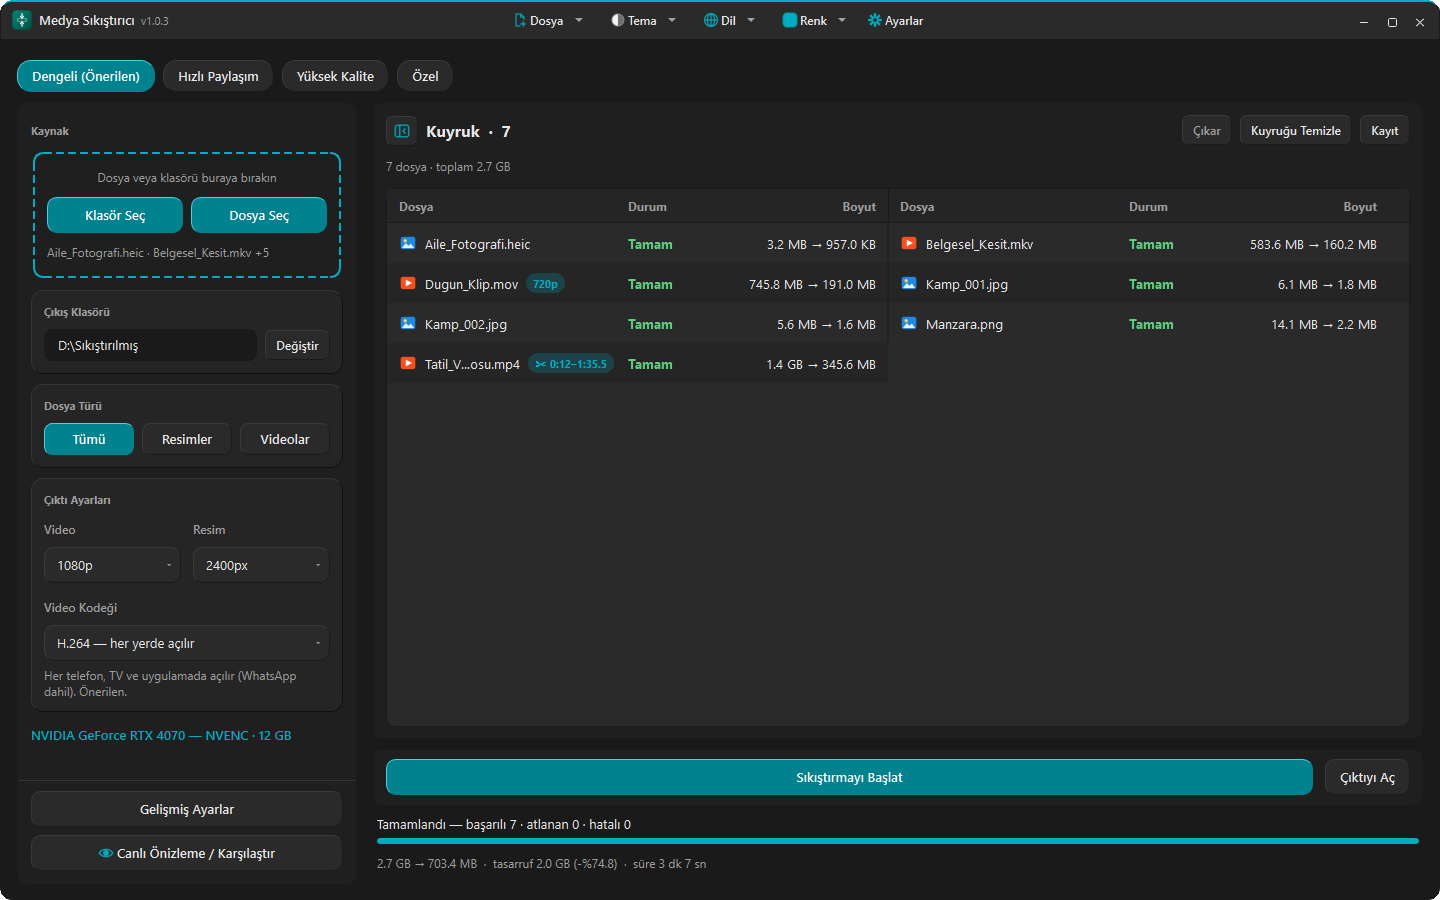
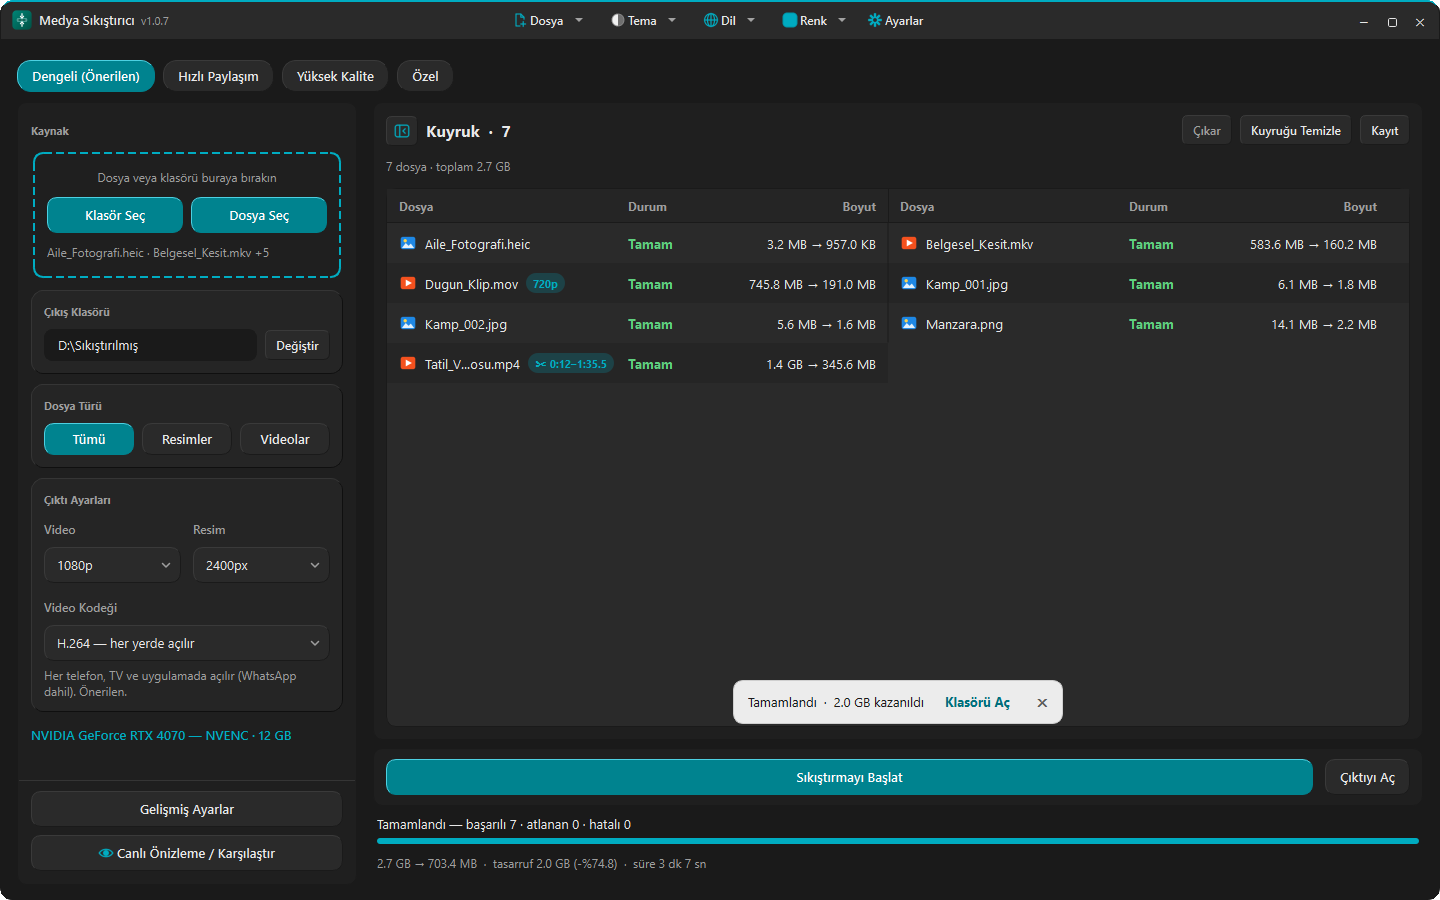
1.0.7: the update window writes the download percentage the way the language does (%41 / 41%), like its bar; README links the GitHub release; refreshed screenshots; message box tests stop their safety timers

Changed region(s): [[0.5, 0.7467, 0.75, 0.8089]]

diff --git a/tests/test_message_box.py b/tests/test_message_box.py
@@ -505,6 +505,15 @@ class TestHookTests(Base):
 
 
 class InputDialogTests(Base):
+    def _safety_close(self) -> None:
+        """Closes a dialog still open after 5 s. The timer stops when the test ends: left running, it closed a later
+        test's box (on a slow machine ParentGoneWhileOpenTest's box shut before its parent went away)."""
+        timer = QTimer()
+        timer.setSingleShot(True)
+        timer.timeout.connect(lambda: (QApplication.activeModalWidget() or QWidget()).close())
+        timer.start(5000)
+        self.addCleanup(timer.stop)
+
     def test_hook_results_for_all_getters(self) -> None:
         MessageBox.set_test_hook(lambda d: ("Yeni Ad", True))
         self.assertEqual(InputDialog.getText(None, "T", "Ad", text="Eski"), ("Yeni Ad", True))
@@ -571,12 +580,12 @@ class InputDialogTests(Base):
             QTest.keyClick(dlg, Qt.Key.Key_Return)
 
         QTimer.singleShot(0, act)
-        QTimer.singleShot(5000, lambda: (QApplication.activeModalWidget() or QWidget()).close())
+        self._safety_close()
         self.assertEqual(InputDialog.getText(None, "Cihaz", "Ad", text="eski"), ("Ofis PC", True))
 
     def test_real_exec_escape_and_cancel_button(self) -> None:
         QTimer.singleShot(0, lambda: QTest.keyClick(QApplication.activeModalWidget(), Qt.Key.Key_Escape))
-        QTimer.singleShot(5000, lambda: (QApplication.activeModalWidget() or QWidget()).close())
+        self._safety_close()
         self.assertEqual(InputDialog.getText(None, "Cihaz", "Ad", text="eski"), ("", False))
         QTimer.singleShot(0, lambda: QApplication.activeModalWidget().button(SB.Cancel).click())
         self.assertEqual(InputDialog.getInt(None, "T", "Sayı", 3, 0, 9), (3, False))
@@ -588,7 +597,7 @@ class InputDialogTests(Base):
             QTest.keyClick(dlg, Qt.Key.Key_Return)
 
         QTimer.singleShot(0, act)
-        QTimer.singleShot(5000, lambda: (QApplication.activeModalWidget() or QWidget()).close())
+        self._safety_close()
         self.assertEqual(InputDialog.getInt(None, "T", "px", 1920, 240, 7680, 10), (2500, True))
 
     def test_get_item_editable_flag(self) -> None:

diff --git a/tests/test_update_flow.py b/tests/test_update_flow.py
@@ -119,12 +119,22 @@ class UpdateDialogTests(ModalGuard, unittest.TestCase):
         self.assertEqual(self._visible(dialog), {"cancel_btn", "progress_bar", "progress_label"})
         self.assertEqual((dialog.progress_bar.minimum(), dialog.progress_bar.maximum()), (0, 0), "ilk ilerlemeye dek belirsiz")
 
+    def test_percent_in_english(self) -> None:
+        dialog = self._dialog(lang="en")
+        dialog.update_btn.click()
+        dialog.update_download_progress(5_000_000_000, 6_000_000_000, 0.0)
+        dialog.progress_bar.finish_animation()
+        self.assertIn("(83%)", dialog.progress_label.text())
+        self.assertEqual(dialog.progress_bar.text(), "83%")
+
     def test_progress_shows_percent_size_and_speed_beyond_two_gigabytes(self) -> None:
         dialog = self._dialog()
         dialog.update_btn.click()
         dialog.update_download_progress(5_000_000_000, 6_000_000_000, 2.5)
         self.assertEqual(dialog.progress_bar.value(), 83)
-        self.assertIn("4.7 GB / 5.6 GB (83%)", dialog.progress_label.text())
+        self.assertIn("4.7 GB / 5.6 GB (%83)", dialog.progress_label.text())
+        dialog.progress_bar.finish_animation()
+        self.assertEqual(dialog.progress_bar.text(), "%83", "the bar and the line write the percent alike")
         self.assertIn("2.50 MB/s", dialog.progress_label.text())
         dialog.update_download_progress(1024, 0, 0.0)  # toplam bilinmiyor
         self.assertEqual(dialog.progress_bar.maximum(), 0)

diff --git a/src/gui/update_dialog.py b/src/gui/update_dialog.py
@@ -92,6 +92,7 @@ class UpdateDialog(ChromeDialog):
 
         self.progress_bar = SmoothProgressBar()
         self.progress_bar.setMinimumHeight(18)
+        self.progress_bar.setFormat(t("pct", self.lang).format("%p"))  # the bar and the line under it alike: "%41" in Turkish, "41%" in English
         self.progress_bar.setVisible(False)
         layout.addWidget(self.progress_bar)
         self.progress_label = QLabel()
@@ -194,7 +195,7 @@ class UpdateDialog(ChromeDialog):
             percent = min(int((downloaded / total) * 100), 100)
             self.progress_bar.setRange(0, 100)
             self.progress_bar.setValue(percent)
-            text = f"{format_bytes(downloaded)} / {format_bytes(total)} ({percent}%)"
+            text = f"{format_bytes(downloaded)} / {format_bytes(total)} ({t('pct', self.lang).format(percent)})"
         else:
             self.progress_bar.setRange(0, 0)
             text = t("update_downloaded_bytes", self.lang).format(format_bytes(downloaded))

diff --git a/src/core/app_info.py b/src/core/app_info.py
@@ -4,7 +4,7 @@ APP_NAME = "Medya Sıkıştırıcı"
 APP_ID = "MediaCompressor"
 # Eski sürümlerin kimliği: ayar klasörü, indirilen ffmpeg ve başlangıç kaydı bu adla duruyor (geçiş için okunur).
 LEGACY_APP_ID = "MedyaSikistirici"
-VERSION = "1.0.6"
+VERSION = "1.0.7"
 ORGANIZATION = "MediaCompressor"
 UPDATE_CHECK_URL = "https://macik.com.tr/api/updates/check"
 EXE_NAME = "MediaCompressor.exe"

diff --git a/README.md b/README.md
@@ -85,6 +85,8 @@ Both switches are in **Settings**. A source checkout or a build of your own chec
 
 Download the Windows build from **<https://macik.com.tr>**. It is a single `.exe`; no installer is needed.
 
+Each [GitHub release](https://github.com/Aseloth99/mediacompressor/releases/latest) also carries an exe built from this repository's source at that version's tag. It takes its updates from the same channel as the official build.
+
 ### From source
 
 Requires Python 3.13 (the version the code is developed and tested on).

diff --git a/README.tr.md b/README.tr.md
@@ -85,6 +85,8 @@ Otomatik denetim açıkken uygulama günde bir kez `macik.com.tr`'ye yeni sürü
 
 Windows sürümünü **<https://macik.com.tr>** adresinden indirin. Tek bir `.exe`'dir; kurulum gerekmez.
 
+Her [GitHub sürümünde](https://github.com/Aseloth99/mediacompressor/releases/latest) o sürümün etiketindeki kaynaktan derlenmiş bir exe de bulunur. Güncellemelerini resmî sürümle aynı kanaldan alır.
+
 ### Kaynaktan
 
 Python 3.13 gerekir (kodun geliştirildiği ve denendiği sürüm).
